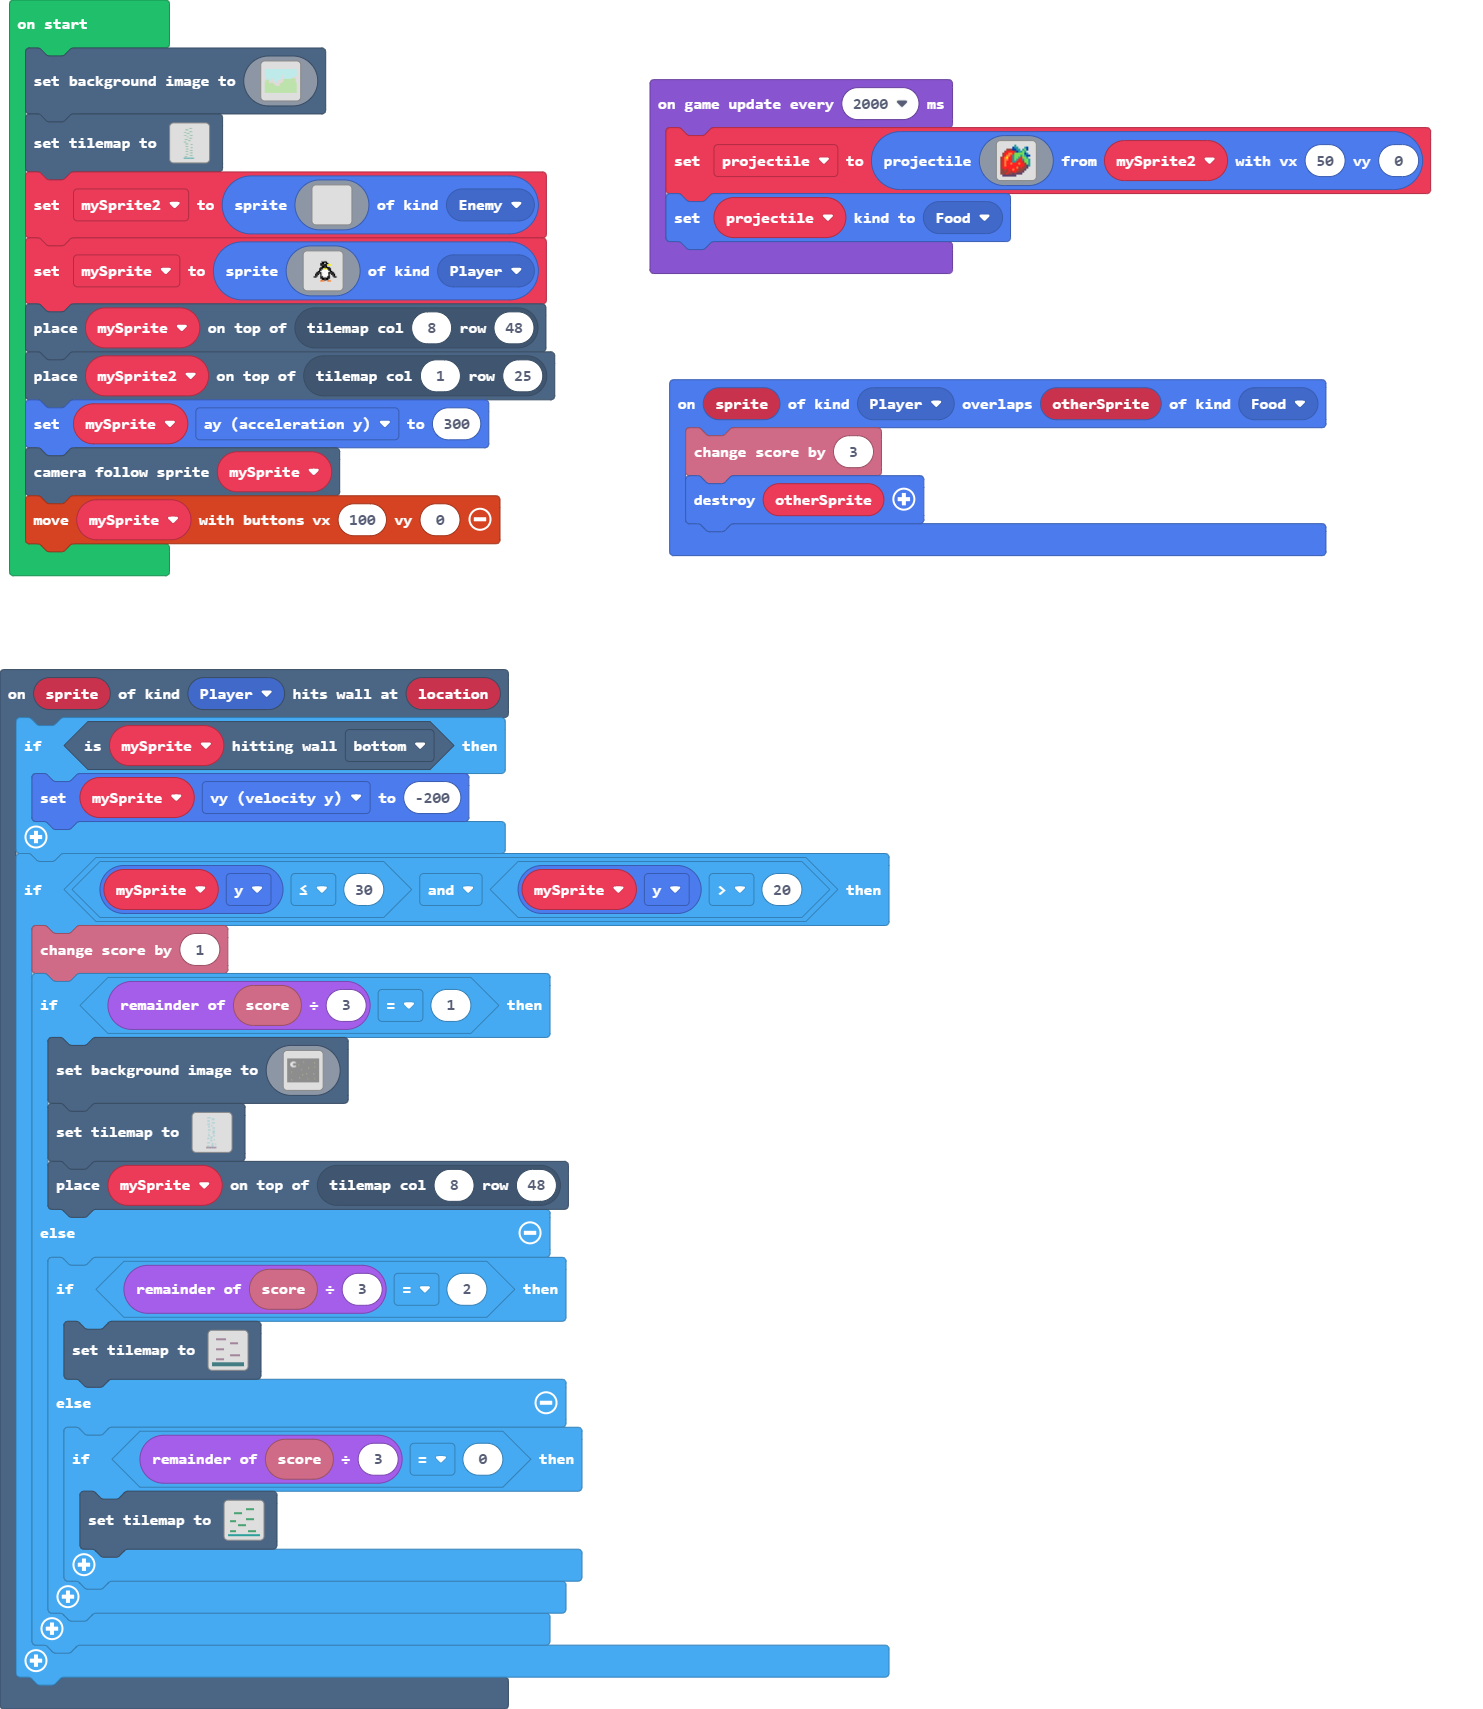
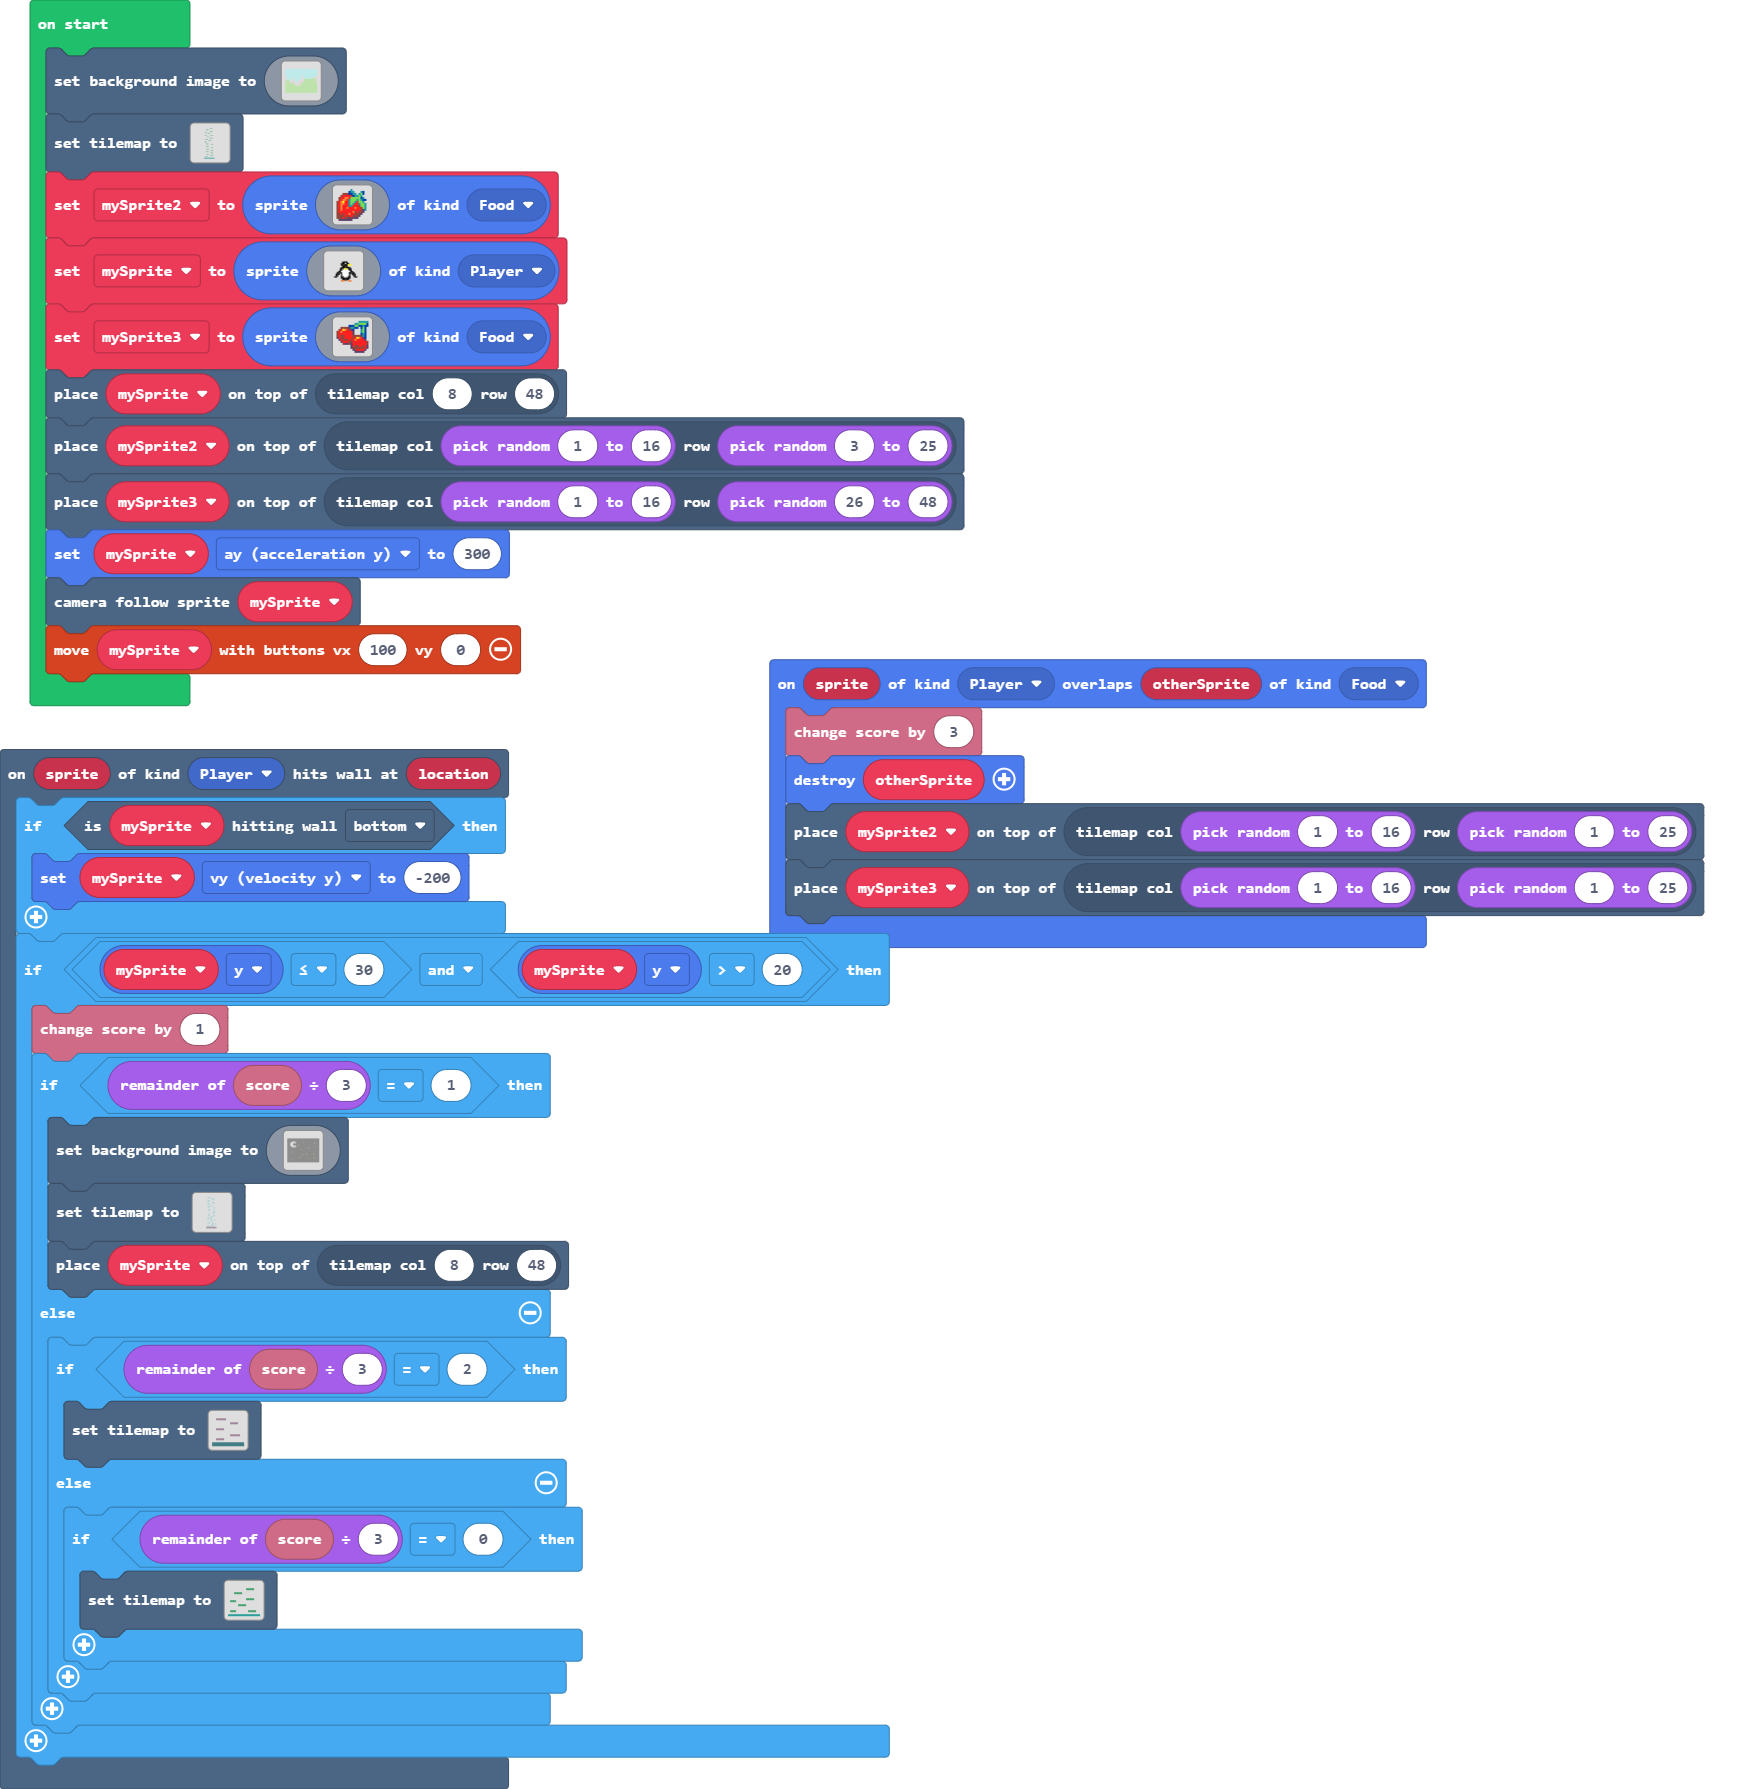
Update main.blocks, main.ts

diff --git a/main.ts b/main.ts
@@ -131,7 +131,7 @@ scene.onHitWall(SpriteKind.Player, function (sprite, location) {
                 ffffffffffffffffffffffffffffffffffffffffffffffffffffffffffffffffffffffffffffffffffffffffffffffffffffffffffffffffffffffffffffffffffffffffffffffffffffffffffffffff
                 ffffffffffffffffffffffffffffffffffffffffffffffffffffffffffffffffffffffffffffffffffffffffffffffffffffffffffffffffffffffffffffffffffffffffffffffffffffffffffffffff
                 `)
-            tiles.setTilemap(tiles.createTilemap(hex`100032000000000000000000000000000000000000000000000000000000000000000000000003030303030000000000000000000000000000000000000000000000000000000000000000000003030303000000000000000000000000000000000000000000000000000000000000000000000000000303030300000000000000000000000000000000000000000000000000000000000000000000000000000000000000000000000000000003030303030000000000000000000000000000000000000000030303030000000000000000000000000000000000000000000000000000000000000000000003030000000000000000000000000000000000000000000000000003030300000000000000000000000000000000000000000000000000000000000000000000000003030303000000000000000000000000000000000000000000000000000000000000000000000000000303030300000000000000000000000000000000000000000000000000000000000000000000000303030300000000000000000000000000000000000000000000030000000000000000000000000000000000000000000303030000000000000000000000000000000000000000000000000000000000000000000000000000030303000000000000000000000000000000000000000000030303000000000000000000000000000000000000000000000000000303030000000000000000000000000000000000000000000000000303030000000000000000000000000000000000000303000000000000000000000000000000000000000303000000000000000000000000000000000000000000000000000303030000000000000000000000000000000000000000000000000000000000000000000000000000000003030303000000000000000000000000000000000000000303030000000000000000000000000000000000000303000000000000000000000000000000000000000000000000030303030000000000000303030000000000000000000000000000000000000000000000000000000207070107020707020707010707020704010602060606060106060206060105`, img`
+            tiles.setTilemap(tiles.createTilemap(hex`100032000000000000000000000000000000000000000000000000000000000000000000000003030303030000000000000000000000000000000000000000000000000000000000000000000003030303000000000000000000000000000000000000000000000000000000000000000000000000000303030300000000000000000000000000000000000000000000000000000000000000000000000000000000000000000000000000000003030303030000000000000000000000000000000000000000030303030000000000000000000000000000000000000000000000000000000000000000000003030000000000000000000000000000000000000000000000000003030300000000000000000000000000000000000000000000000000000000000000000000000000030303000000000000000000000000000000000000000000000000000000000000000000000000000303030300000000000000000000000000000000000000000000000000000000000000000000000003030300000000000000000000000000000000000000000000030000000000000000000000000000000000000000000303030000000000000000000000000000000000000000000000000000000000000000000000000000030303000000000000000000000000000000000000000000030303000000000000000000000000000000000000000000000000000303030000000000000000000000000000000000000000000000000303030000000000000000000000000000000000000303000000000000000000000000000000000000000303000000000000000000000000000000000000000000000000000303030000000000000000000000000000000000000000000000000000000000000000000000000000000003030303000000000000000000000000000000000000000303030000000000000000000000000000000000000303000000000000000000000000000000000000000000000000030303030000000000000303030000000000000000000000000000000000000000000000000000000207070107020707020707010707020704010602060606060106060206060105`, img`
                 ................
                 ................
                 ..22222.........
@@ -150,12 +150,12 @@ scene.onHitWall(SpriteKind.Player, function (sprite, location) {
                 ................
                 ...222..........
                 ................
-                ..........2222..
+                ...........222..
                 ................
                 ................
                 ...2222.........
                 ................
-                ..........2222..
+                ...........222..
                 ................
                 ....2...........
                 ..........222...
@@ -232,9 +232,12 @@ scene.onHitWall(SpriteKind.Player, function (sprite, location) {
 sprites.onOverlap(SpriteKind.Player, SpriteKind.Food, function (sprite, otherSprite) {
     info.changeScoreBy(3)
     otherSprite.destroy()
+    tiles.placeOnTile(mySprite2, tiles.getTileLocation(randint(1, 16), randint(1, 25)))
+    tiles.placeOnTile(mySprite3, tiles.getTileLocation(randint(1, 16), randint(1, 25)))
 })
-let projectile: Sprite = null
+let mySprite3: Sprite = null
 let mySprite: Sprite = null
+let mySprite2: Sprite = null
 scene.setBackgroundImage(img`
     9999999999999999999999999999999999999999999999999999999999999999999999999999999999999999999999999999999999999999999999999999999999999999999999999999999999999999
     9999999999999999999999999999999999999999999999999999999999999999999999999999999999999999999999999999999999999999999999999999999999999999999999999999999999999999
@@ -409,24 +412,24 @@ tiles.setTilemap(tiles.createTilemap(hex`100032000000000000000000000000000000000
     ................
     ................
     `, [myTiles.transparency16,sprites.castle.tileDarkGrass1,sprites.builtin.forestTiles0,sprites.castle.tileDarkGrass2], TileScale.Sixteen))
-let mySprite2 = sprites.create(img`
-    . . . . . . . . . . . . . . . . 
-    . . . . . . . . . . . . . . . . 
-    . . . . . . . . . . . . . . . . 
-    . . . . . . . . . . . . . . . . 
-    . . . . . . . . . . . . . . . . 
-    . . . . . . . . . . . . . . . . 
-    . . . . . . . . . . . . . . . . 
-    . . . . . . . . . . . . . . . . 
-    . . . . . . . . . . . . . . . . 
-    . . . . . . . . . . . . . . . . 
-    . . . . . . . . . . . . . . . . 
-    . . . . . . . . . . . . . . . . 
-    . . . . . . . . . . . . . . . . 
-    . . . . . . . . . . . . . . . . 
-    . . . . . . . . . . . . . . . . 
-    . . . . . . . . . . . . . . . . 
-    `, SpriteKind.Enemy)
+mySprite2 = sprites.create(img`
+    . . . . . . . 6 . . . . . . . . 
+    . . . . . . 8 6 6 . . . 6 8 . . 
+    . . . e e e 8 8 6 6 . 6 7 8 . . 
+    . . e 2 2 2 2 e 8 6 6 7 6 . . . 
+    . e 2 2 4 4 2 7 7 7 7 7 8 6 . . 
+    . e 2 4 4 2 6 7 7 7 6 7 6 8 8 . 
+    e 2 4 5 2 2 6 7 7 6 2 7 7 6 . . 
+    e 2 4 4 2 2 6 7 6 2 2 6 7 7 6 . 
+    e 2 4 2 2 2 6 6 2 2 2 e 7 7 6 . 
+    e 2 4 2 2 4 2 2 2 4 2 2 e 7 6 . 
+    e 2 4 2 2 2 2 2 2 2 2 2 e c 6 . 
+    e 2 2 2 2 2 2 2 4 e 2 e e c . . 
+    e e 2 e 2 2 4 2 2 e e e c . . . 
+    e e e e 2 e 2 2 e e e c . . . . 
+    e e e 2 e e c e c c c . . . . . 
+    . c c c c c c c . . . . . . . . 
+    `, SpriteKind.Food)
 mySprite = sprites.create(img`
     ........................
     ........................
@@ -453,29 +456,27 @@ mySprite = sprites.create(img`
     ........................
     ........................
     `, SpriteKind.Player)
+mySprite3 = sprites.create(img`
+    . . . . . . . . . . . 6 6 6 6 6 
+    . . . . . . . . . 6 6 7 7 7 7 8 
+    . . . . . . 8 8 8 7 7 8 8 6 8 8 
+    . . e e e e c 6 6 8 8 . 8 7 8 . 
+    . e 2 5 4 2 e c 8 . . . 6 7 8 . 
+    e 2 4 2 2 2 2 2 c . . . 6 7 8 . 
+    e 2 2 2 2 2 2 2 c . . . 8 6 8 . 
+    e 2 e e 2 2 2 2 e e e e c 6 8 . 
+    c 2 e e 2 2 2 2 e 2 5 4 2 c 8 . 
+    . c 2 e e e 2 e 2 4 2 2 2 2 c . 
+    . . c 2 2 2 e e 2 2 2 2 2 2 2 e 
+    . . . e c c e c 2 2 2 2 2 2 2 e 
+    . . . . . . . c 2 e e 2 2 e 2 c 
+    . . . . . . . c e e e e e e 2 c 
+    . . . . . . . . c e 2 2 2 2 c . 
+    . . . . . . . . . c c c c c . . 
+    `, SpriteKind.Food)
 tiles.placeOnTile(mySprite, tiles.getTileLocation(8, 48))
-tiles.placeOnTile(mySprite2, tiles.getTileLocation(1, 25))
+tiles.placeOnTile(mySprite2, tiles.getTileLocation(randint(1, 16), randint(3, 25)))
+tiles.placeOnTile(mySprite3, tiles.getTileLocation(randint(1, 16), randint(26, 48)))
 mySprite.ay = 300
 scene.cameraFollowSprite(mySprite)
 controller.moveSprite(mySprite, 100, 0)
-game.onUpdateInterval(2000, function () {
-    projectile = sprites.createProjectileFromSprite(img`
-        . . . . . . . 6 . . . . . . . . 
-        . . . . . . 8 6 6 . . . 6 8 . . 
-        . . . e e e 8 8 6 6 . 6 7 8 . . 
-        . . e 2 2 2 2 e 8 6 6 7 6 . . . 
-        . e 2 2 4 4 2 7 7 7 7 7 8 6 . . 
-        . e 2 4 4 2 6 7 7 7 6 7 6 8 8 . 
-        e 2 4 5 2 2 6 7 7 6 2 7 7 6 . . 
-        e 2 4 4 2 2 6 7 6 2 2 6 7 7 6 . 
-        e 2 4 2 2 2 6 6 2 2 2 e 7 7 6 . 
-        e 2 4 2 2 4 2 2 2 4 2 2 e 7 6 . 
-        e 2 4 2 2 2 2 2 2 2 2 2 e c 6 . 
-        e 2 2 2 2 2 2 2 4 e 2 e e c . . 
-        e e 2 e 2 2 4 2 2 e e e c . . . 
-        e e e e 2 e 2 2 e e e c . . . . 
-        e e e 2 e e c e c c c . . . . . 
-        . c c c c c c c . . . . . . . . 
-        `, mySprite2, 50, 0)
-    projectile.setKind(SpriteKind.Food)
-})
